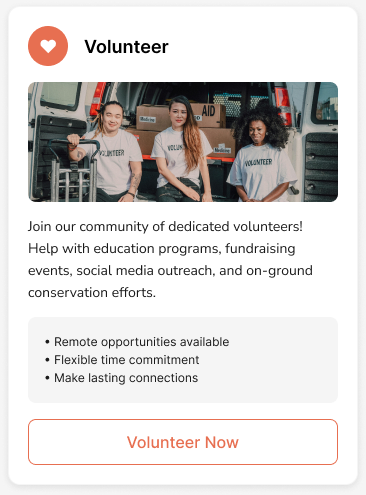
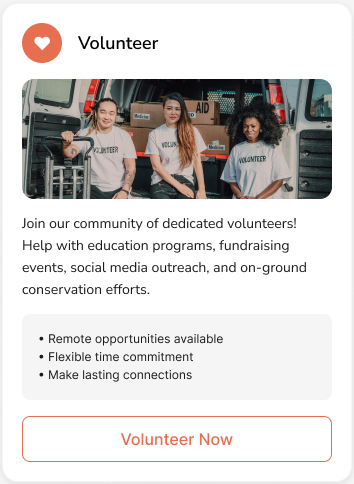
Elephaid: current screens everywhere, Volunteer + Confirmation in the showcase
Updated About, Home, How to Help and Make a Donation (new nav bar, real
'donation at work' photos), new volunteer card crop, site map notes for
Donate/Volunteer. The staggered showcase now wraps into rows of four.

diff --git a/src/data/caseStudies/elephaid.js b/src/data/caseStudies/elephaid.js
@@ -4,7 +4,9 @@ import home from '../../assets/elephaid/home.png'
 import homePhone from '../../assets/elephaid/home-phone.png'
 import about from '../../assets/elephaid/about.png'
 import howToHelp from '../../assets/elephaid/how-to-help.png'
-import donation from '../../assets/elephaid/donation.png'
+import donation from '../../assets/elephaid/donation.webp'
+import donationConfirmation from '../../assets/elephaid/donation-confirmation.png'
+import volunteer from '../../assets/elephaid/volunteer.png'
 import logo from '../../assets/elephaid/logo.png'
 import amountCard from '../../assets/elephaid/ui-amount-card.png'
 import volunteerCard from '../../assets/elephaid/ui-volunteer-card.png'
@@ -16,7 +18,7 @@ import photoTusks from '../../assets/elephaid/photo-tusks.png'
 
 // elephaid case study. screens, colors, fonts and ui pieces come from bri's
 // Elephaid 2 figma file ("Portfolio •" frames); the original home screen
-// was supplied by bri. how-to-help is still the older export (old nav bar).
+// was supplied by bri.
 
 // phone screens cropped to their top
 const PHONE = '9 / 19'
@@ -113,8 +115,8 @@ const elephaid = {
         { name: 'Home', notes: ['urgent rescue story', 'recent impact', 'community stories'] },
         { name: 'About', notes: ['who we are', 'what we do'] },
         { name: 'How to Help', notes: ['donate', 'volunteer', 'spread awareness'] },
-        { name: 'Donate', notes: ['make a donation'] },
-        { name: 'Volunteer', notes: ['nav bar destination'] },
+        { name: 'Donate', notes: ['make a donation', 'confirmation'] },
+        { name: 'Volunteer', notes: ['ways to volunteer', 'sign-up form'] },
       ],
       gallery: [
         {
@@ -210,7 +212,7 @@ const elephaid = {
       headline: 'turning compassion',
       highlight: 'into action.',
       body: [
-        'The final designs bring together a more organized mobile experience that introduces Elephaid’s mission and provides clear ways to support it. Visitors can explore the organization, read about its conservation work, discover ways to help, and navigate to the donation experience.',
+        'The final designs bring together a more organized mobile experience that introduces Elephaid’s mission and provides clear ways to support it. Visitors can explore the organization, read about its conservation work, discover ways to help, sign up to volunteer, and move through a donation to its confirmation screen.',
         'The donation screen includes preset donation amounts, a custom amount option, monthly contribution selection, and payment details. Content about elephant rescue and conservation impact helps visitors understand why their contributions matter.',
       ],
       layout: 'showcase',
@@ -220,6 +222,8 @@ const elephaid = {
         { src: about, alt: 'About Elephaid screen', caption: 'about' },
         { src: howToHelp, alt: 'How to Help screen', caption: 'how to help', size: 'lg' },
         { src: donation, alt: 'Make a Donation screen', caption: 'make a donation' },
+        { src: donationConfirmation, alt: 'Donation confirmation screen: Thank you for helping elephants', caption: 'confirmation' },
+        { src: volunteer, alt: 'Volunteer screen with ways to volunteer and a sign-up form', caption: 'volunteer', size: 'lg' },
       ],
     },
     {

diff --git a/src/components/caseStudy/CaseStudy.module.css b/src/components/caseStudy/CaseStudy.module.css
@@ -1141,16 +1141,27 @@
 }
 
 /* final showcase: full-length screens side by side, nudged up and down */
+/* rows of up to four screens, bigger ones a touch wider; a short last row centers */
 .stagger {
-  display: grid;
-  grid-template-columns: 1fr 1.25fr 1fr 1.25fr 1fr;
-  align-items: start;
-  gap: 1.25rem;
+  display: flex;
+  flex-wrap: wrap;
+  justify-content: center;
+  align-items: flex-start;
+  gap: 2rem 1.25rem;
   width: 100%;
   margin-top: 3rem;
   padding: 3rem 2rem;
   border-radius: 14px;
   background: linear-gradient(135deg, var(--card-bg), #F7DCCD);
+}
+
+.staggerItem {
+  flex: 0 0 21%;
+  min-width: 0;
+}
+
+.staggerItem.staggerLg {
+  flex-basis: 25%;
 }
 
 .staggerItem .frame {
@@ -1170,16 +1181,20 @@
   .personas {
     grid-template-columns: 1fr;
   }
-  .stagger {
-    grid-template-columns: repeat(3, minmax(0, 1fr));
+  .staggerItem,
+  .staggerItem.staggerLg {
+    flex-basis: 29%;
   }
 }
 
 @media (max-width: 600px) {
   .stagger {
-    grid-template-columns: repeat(2, minmax(0, 1fr));
     padding: 1.5rem 1rem;
     gap: 0.9rem;
+  }
+  .staggerItem,
+  .staggerItem.staggerLg {
+    flex-basis: calc(50% - 0.45rem);
   }
   .staggerItem:nth-child(odd) {
     margin-top: 0;

diff --git a/CLAUDE.md b/CLAUDE.md
@@ -65,5 +65,5 @@ Personal portfolio for Bri Miller, a UX/UI designer. React 19 + Vite, styled wit
 
 ## Open to-dos
 
-- **Case studies:** template in `src/pages/CaseStudy.jsx` + `src/components/caseStudy/`, content in `src/data/caseStudies/<slug>.js` (listed in `index.js`). Pages load at `/<slug>` via a plain pathname check in `App.jsx` (no router). Camp Woofs & Wiggles is built; screens and crops were captured from the live site (https://mbrianna1170.github.io/camp_woofs_and_wiggles/). Lines marked DRAFT (including all four reflection cards) need Bri's wording. Bowlsome Smoothie is built (stacked 3-screen hero, persona/brief note cards, step flow, testing findings with before/after, kiosk showcase); screens, wireframes and user flow are Bri's Adobe XD exports (.webp in `src/assets/bowlsome/`); logo, illustrations and UI pieces are cropped from them and the palette was sampled from their pixels (may be a shade off). Still placeholders: the Finding 1 before/after (two sizes highlighted vs. one) and the Finding 2 annotated Next-button screen. No hi-fi Smoothie Base or Add-Ins screens were supplied, yet the hi-fi steps still read "of 7". Its usability sheet has a participant's real name: never put names on the site. Elephaid (project 3) is built from Bri's Figma file "Elephaid 2" (fileKey `Qg3Vi4QmRwYsa2f1HAmN0s`); use its "Portfolio •" frames (e.g. Home 2047:649). Section 01 shows original home (Bri-supplied) + redesigned splash + home. How to Help is still an older export with the old nav bar; Portfolio • Volunteer and Donation Confirmation now exist in the file but aren't on the page yet. The Figma Starter plan caps MCP calls, so batch exports. Hosting is Netlify (connected to GitHub): `netlify.toml` sets the build, Node 22, and the SPA fallback that serves `index.html` for case study paths.
+- **Case studies:** template in `src/pages/CaseStudy.jsx` + `src/components/caseStudy/`, content in `src/data/caseStudies/<slug>.js` (listed in `index.js`). Pages load at `/<slug>` via a plain pathname check in `App.jsx` (no router). Camp Woofs & Wiggles is built; screens and crops were captured from the live site (https://mbrianna1170.github.io/camp_woofs_and_wiggles/). Lines marked DRAFT (including all four reflection cards) need Bri's wording. Bowlsome Smoothie is built (stacked 3-screen hero, persona/brief note cards, step flow, testing findings with before/after, kiosk showcase); screens, wireframes and user flow are Bri's Adobe XD exports (.webp in `src/assets/bowlsome/`); logo, illustrations and UI pieces are cropped from them and the palette was sampled from their pixels (may be a shade off). Still placeholders: the Finding 1 before/after (two sizes highlighted vs. one) and the Finding 2 annotated Next-button screen. No hi-fi Smoothie Base or Add-Ins screens were supplied, yet the hi-fi steps still read "of 7". Its usability sheet has a participant's real name: never put names on the site. Elephaid (project 3) is built from Bri's Figma file "Elephaid 2" (fileKey `Qg3Vi4QmRwYsa2f1HAmN0s`); use its "Portfolio •" frames (e.g. Home 2047:649). Section 01 shows original home (Bri-supplied) + redesigned splash + home. All screens (incl. Volunteer and Donation Confirmation) are the current Portfolio versions with the new nav bar; the final showcase staggers all seven in rows of four. The Figma Starter plan caps MCP calls, so batch exports. Hosting is Netlify (connected to GitHub): `netlify.toml` sets the build, Node 22, and the SPA fallback that serves `index.html` for case study paths.
 - Elephaid card image is the splash screen; a nicer phone mockup could replace it later.
